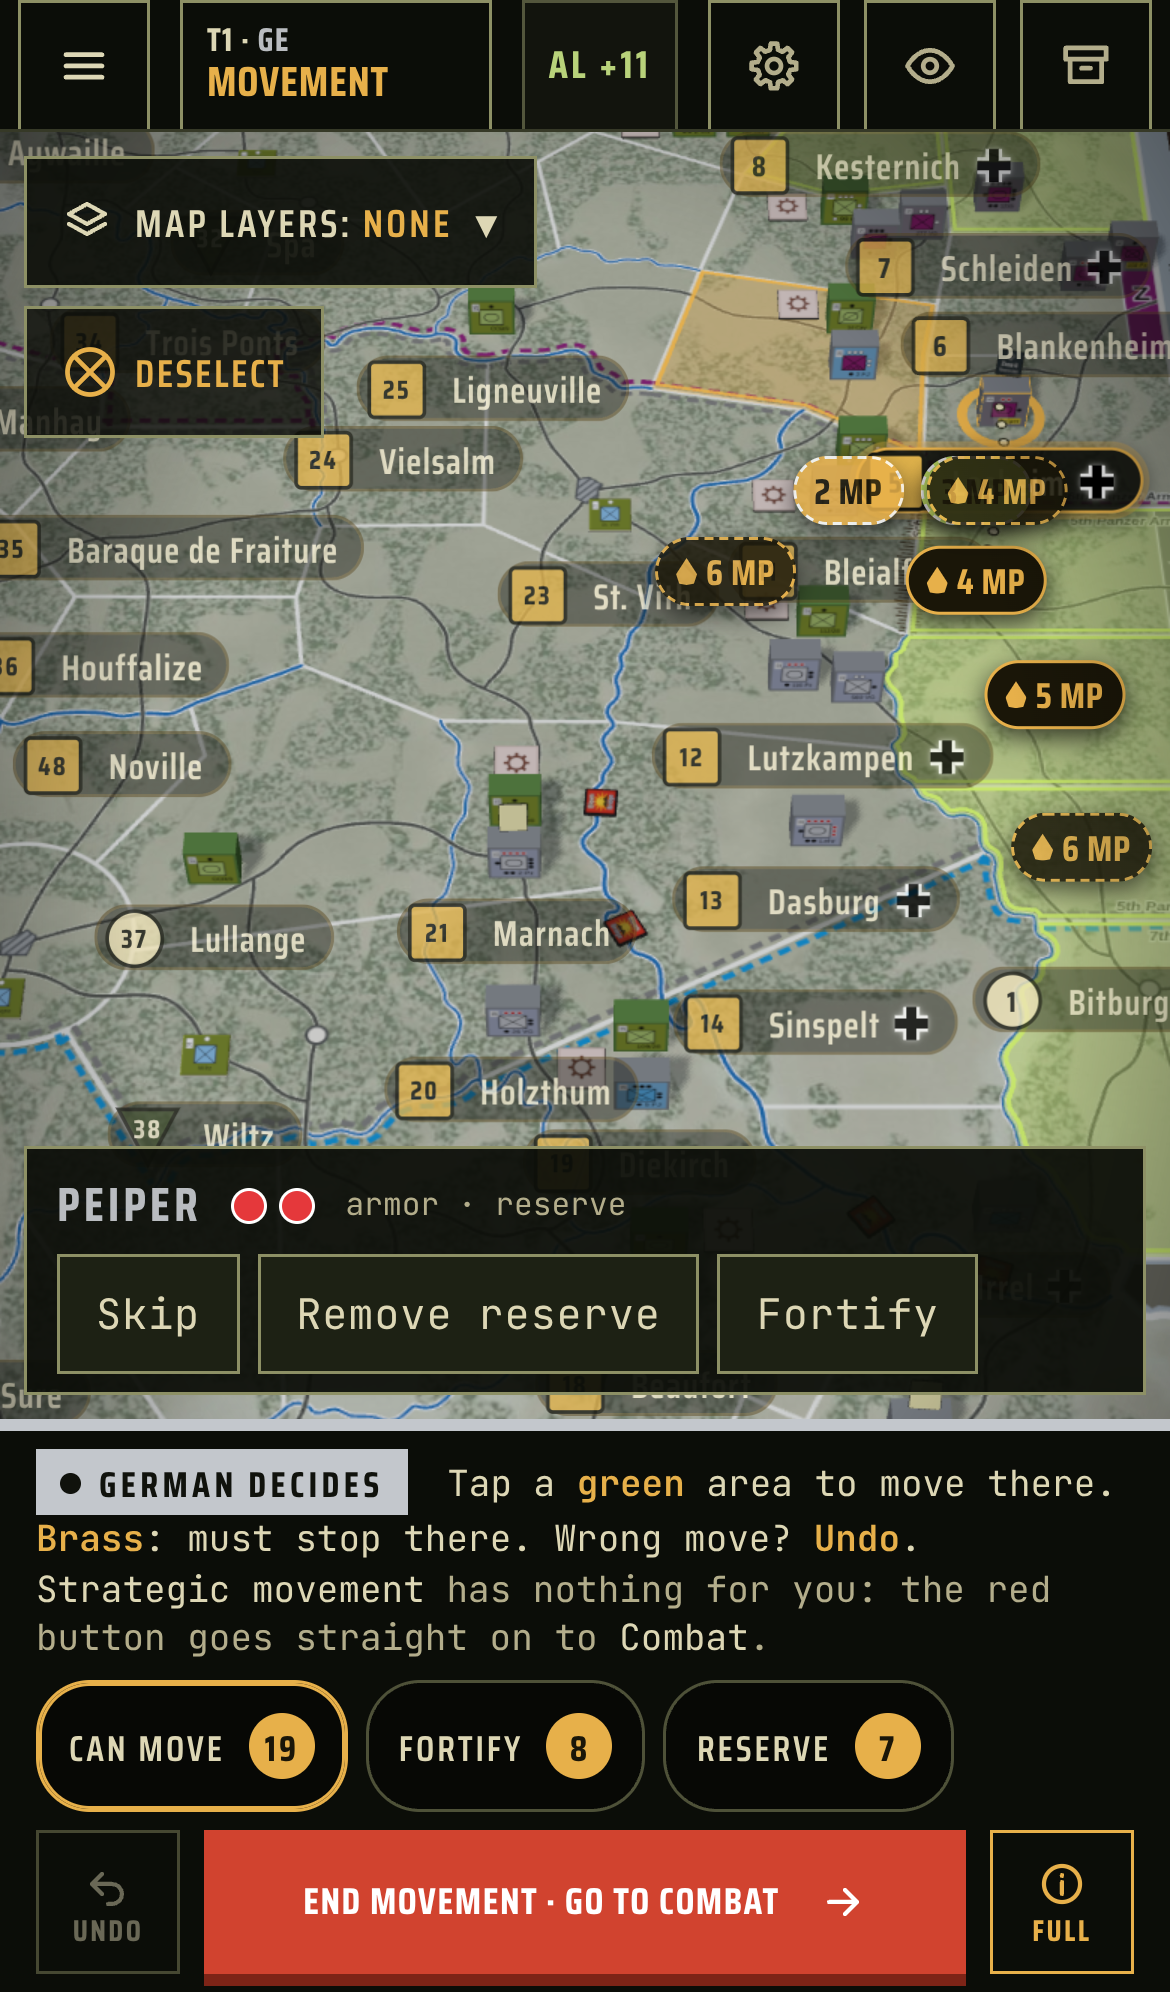
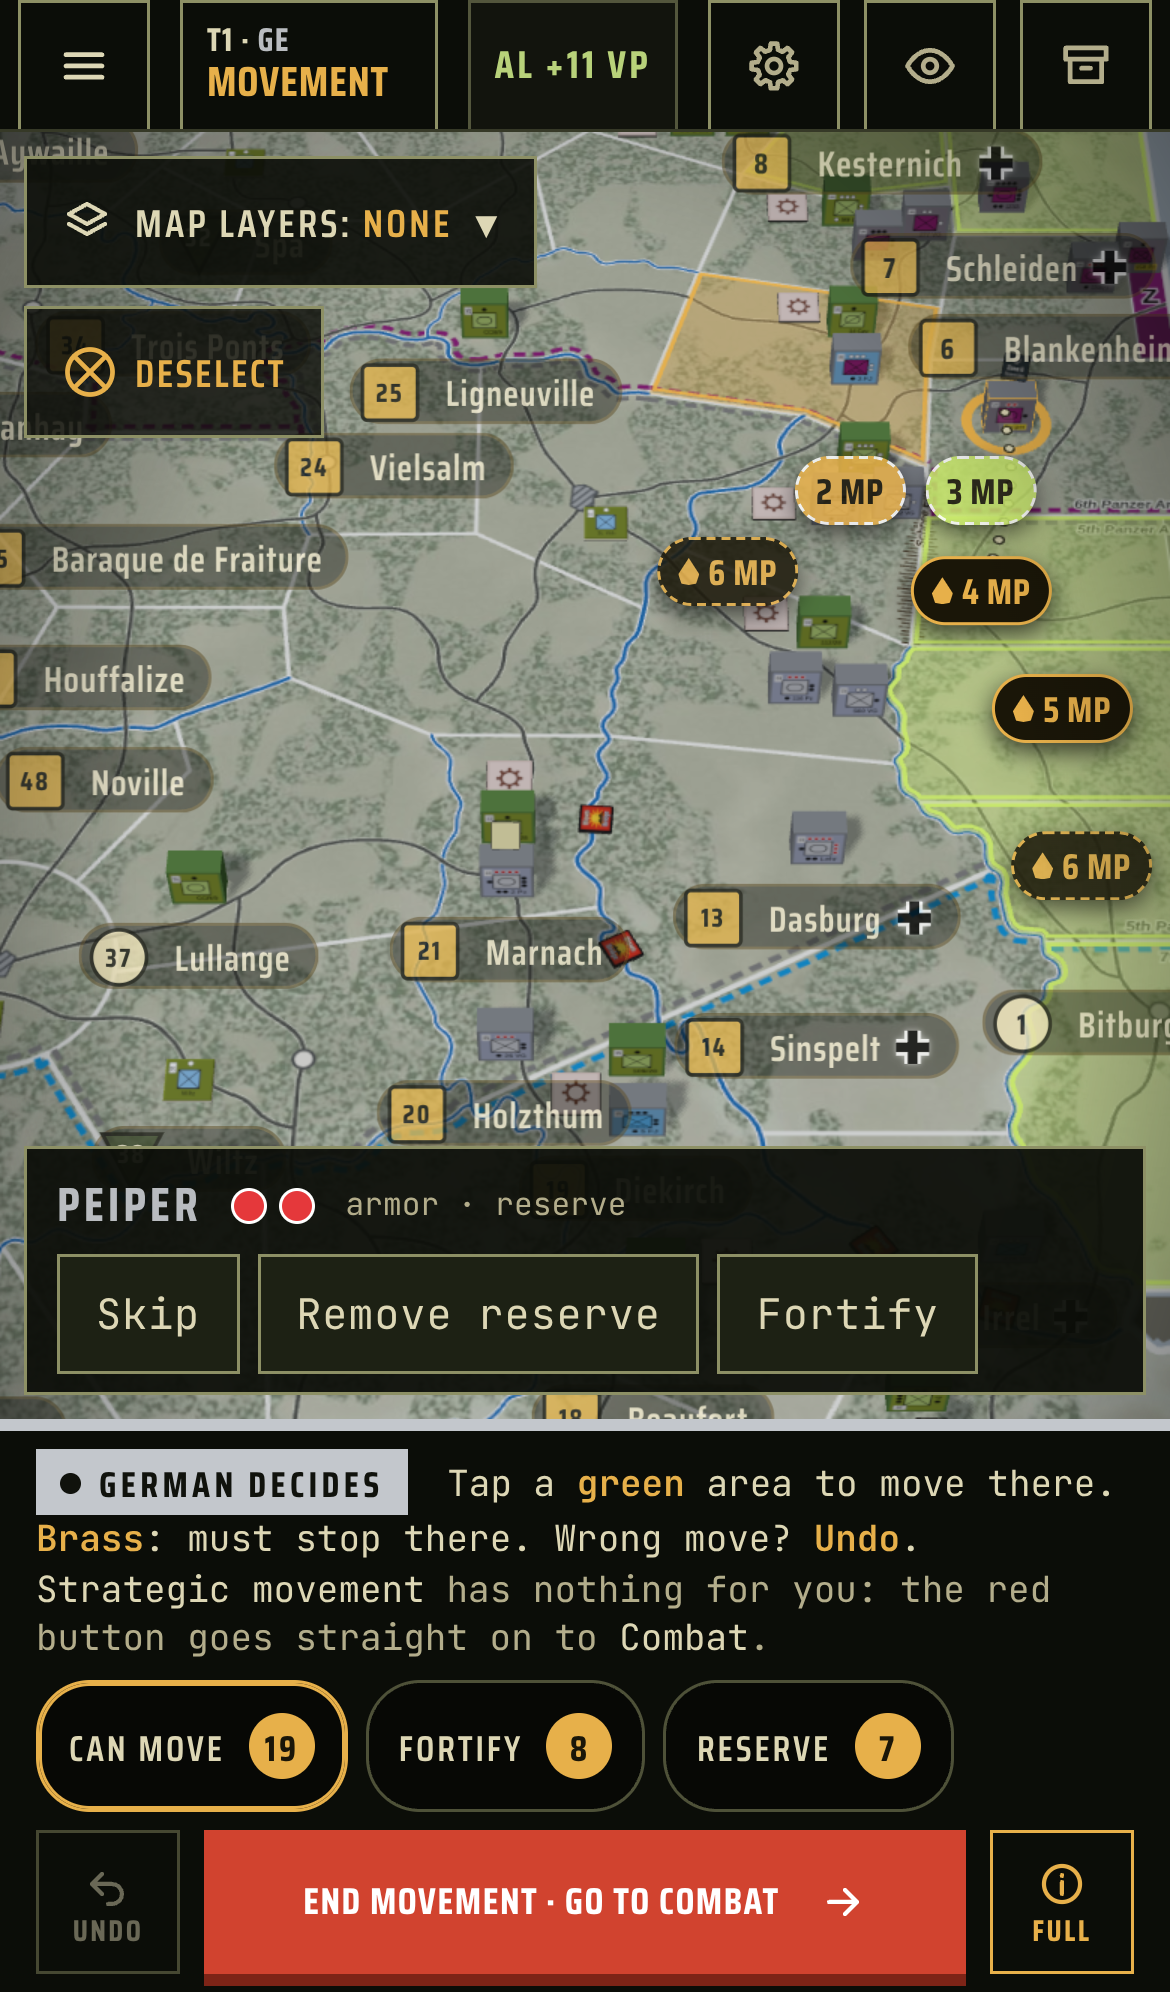
Phone move badges never overlap each other or an area label (one with no room is dropped, its area stays green); the one-line message wraps to two lines and ends in an ellipsis
Claude-Session: https://claude.ai/code/session_01ME3JNWPCjyD5txMyWoKnu2

diff --git a/web/src/map-marks.ts b/web/src/map-marks.ts
@@ -106,7 +106,8 @@ function placeAreaTags() {
       const p = pieceScreen(u.id);
       if (p) under.set(u.area, Math.max(under.get(u.area) ?? -1e9, p.y - r.top + p.rad * 0.8));
     }
-  const thin = innerWidth < 700 && tagPpu < TAG_NEAR, // phone, zoomed out: labels that would sit on another one step aside (design review 16 Nov)
+  const tagShown: { id: number; d: HTMLElement; px: number; py: number }[] = [],
+    thin = innerWidth < 700 && tagPpu < TAG_NEAR, // phone, zoomed out: labels that would sit on another one step aside (design review 16 Nov)
     shown: { id: number; d: HTMLElement; px: number; py: number; k: number }[] = [];
   for (const [id, d] of tagEls) {
     const c = center(id);
@@ -121,8 +122,15 @@ function placeAreaTags() {
     d.style.display = v.z < 1 || pin ? '' : 'none'; // every area keeps its label at every tilt and zoom (owner's issue #15)
     d.style.transform = `translate(${px.toFixed(1)}px, ${py.toFixed(1)}px) translate(-50%, -50%)`;
     d.classList.toggle('hov', hov);
+    if (d.style.display === '') tagShown.push({ id, d, px, py });
     if (thin && d.style.display === '') shown.push({ id, d, px, py, k: hov || pin ? 3 : by != null ? 2 : 1 });
   }
+  if (innerWidth < 700 && badgeBoxes.length)
+    for (const t of tagShown) {
+      const w = tagW.get(t.id) ?? t.d.offsetWidth ?? 80,
+        q = { x0: t.px - w / 2, x1: t.px + w / 2, y0: t.py - 11, y1: t.py + 11 };
+      if (badgeBoxes.some((o) => q.x0 < o.x1 && q.x1 > o.x0 && q.y0 < o.y1 && q.y1 > o.y0)) t.d.style.display = 'none';
+    } // phone: a label under a move badge steps aside (the badge is what matters while a block is selected)
   if (thin) {
     const kept: { x0: number; x1: number; y0: number; y1: number }[] = [];
     for (const t of shown.sort((a, b) => b.k - a.k)) {
@@ -135,6 +143,7 @@ function placeAreaTags() {
   }
 }
 const tagW = new Map<number, number>();
+let badgeBoxes: { x0: number; x1: number; y0: number; y1: number }[] = [];
 canvas.addEventListener('pointermove', (e) => {
   if (labelMode === 'off' || e.buttons) return;
   const a = pick(e).area ?? null;
@@ -712,6 +721,7 @@ export function placeBadges() {
   placeBubbles();
   const r = canvas.getBoundingClientRect(),
     v = new THREE.Vector3();
+  badgeBoxes = [];
   const dockBottom = (document.querySelector('#ui .mapdock')?.getBoundingClientRect().bottom ?? r.top) - r.top, // the Layer bar and map tools: move badges stay below them
     cardTop = innerWidth < 700 ? (document.querySelector('#ui .c-dispatch')?.getBoundingClientRect().top ?? r.bottom) - r.top : r.height, // and, on the phone, above the block card
     placed: { x0: number; x1: number; y0: number; y1: number }[] = [];
@@ -759,11 +769,12 @@ export function placeBadges() {
           sy += ey * 2 * h;
           free = true;
         } // neighbouring areas' badges sit side by side instead of piling up (design review 16 Nov, phone)
-      if (!free && out && innerWidth < 700) {
+      if (!free && innerWidth < 700) {
         d.style.display = 'none';
         continue;
-      } // phone: an off-screen destination with no room left at the edge is not drawn (its area is still green)
+      } // phone: a destination with no room left for its badge is not drawn (its area is still green): badges never overlap
       placed.push({ x0: sx - w, x1: sx + w, y0: sy - h, y1: sy + h });
+      badgeBoxes.push({ x0: sx - hw, x1: sx + hw, y0: sy - hh, y1: sy + hh });
       d.classList.toggle('edge', out || sy !== sy0);
     } // a destination off screen keeps its tag at the edge, so no "no supply" warning is missed
     d.style.transform = `translate(${sx}px, ${sy}px) translate(-50%, -50%)`;

diff --git a/web/src/css/bars.css b/web/src/css/bars.css
@@ -250,9 +250,10 @@
   .feed .fl2 {
     font-size: 11.5px;
     padding: 3px 8px;
-    white-space: nowrap;
     overflow: hidden;
-    text-overflow: ellipsis; /* one short line that fades, never a card over the map (design review 16 Nov; owner, 15 Nov) */
+    display: -webkit-box;
+    -webkit-box-orient: vertical;
+    -webkit-line-clamp: 2; /* at most two short lines that fade, ending in … never a card over the map (design review 16 Nov; owner, 15 Nov) */
   }
 }
 .rdet {
